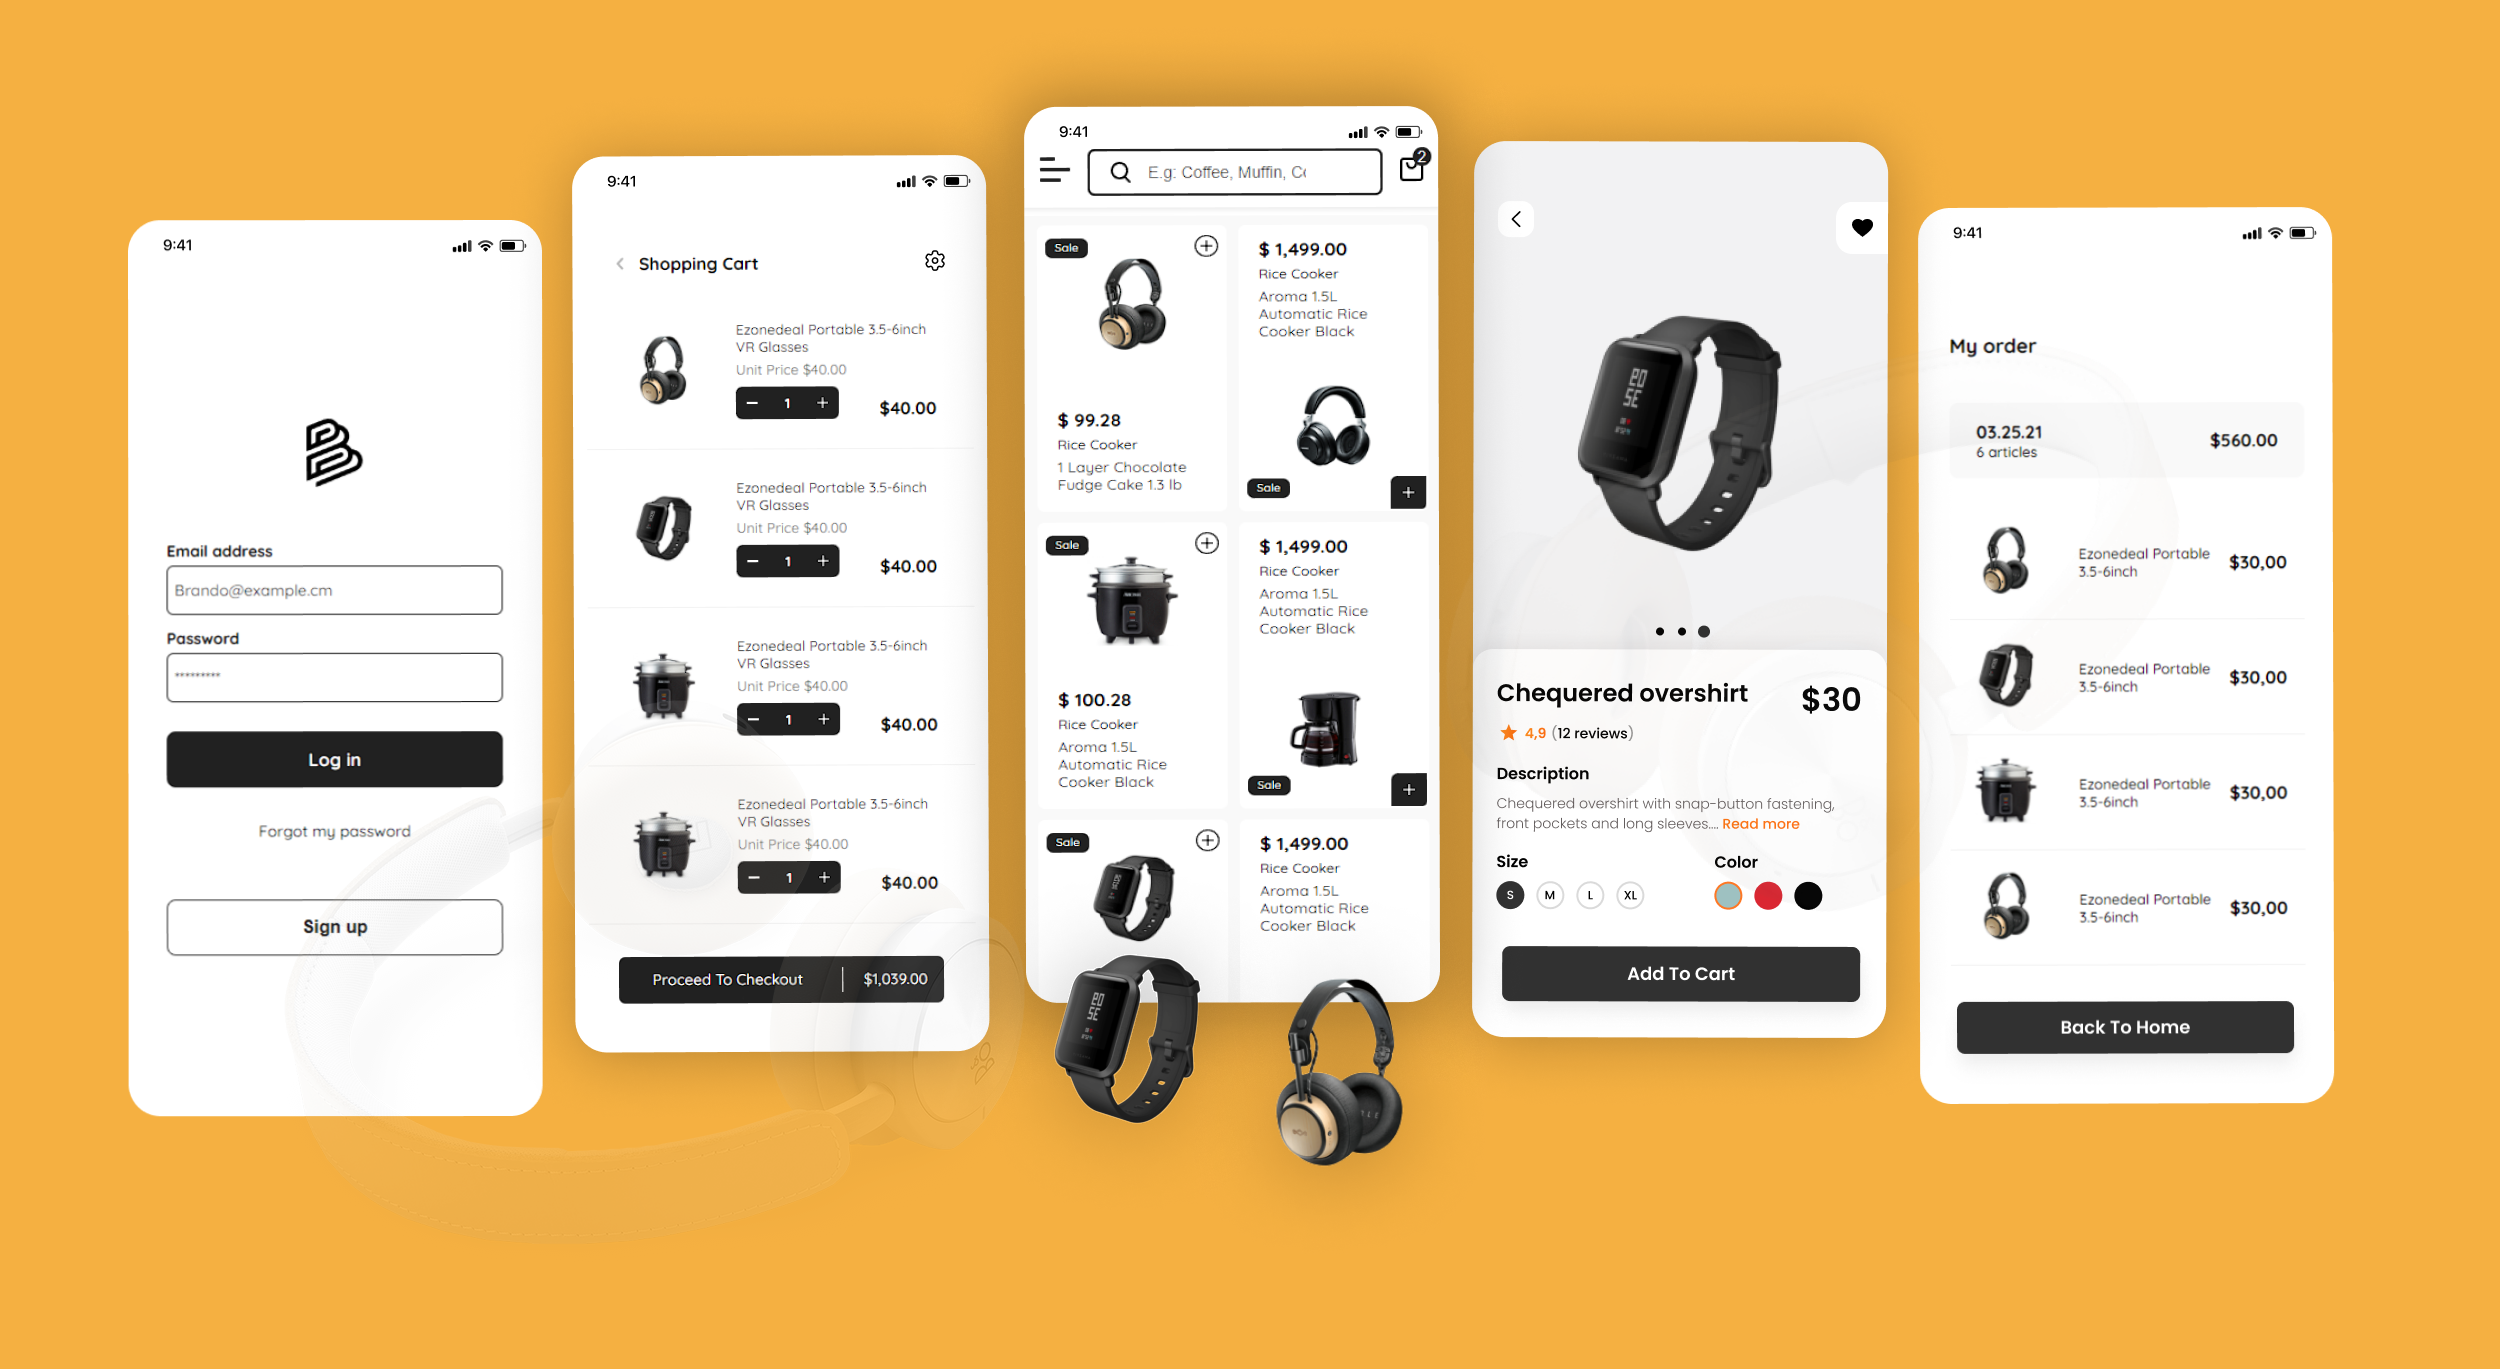
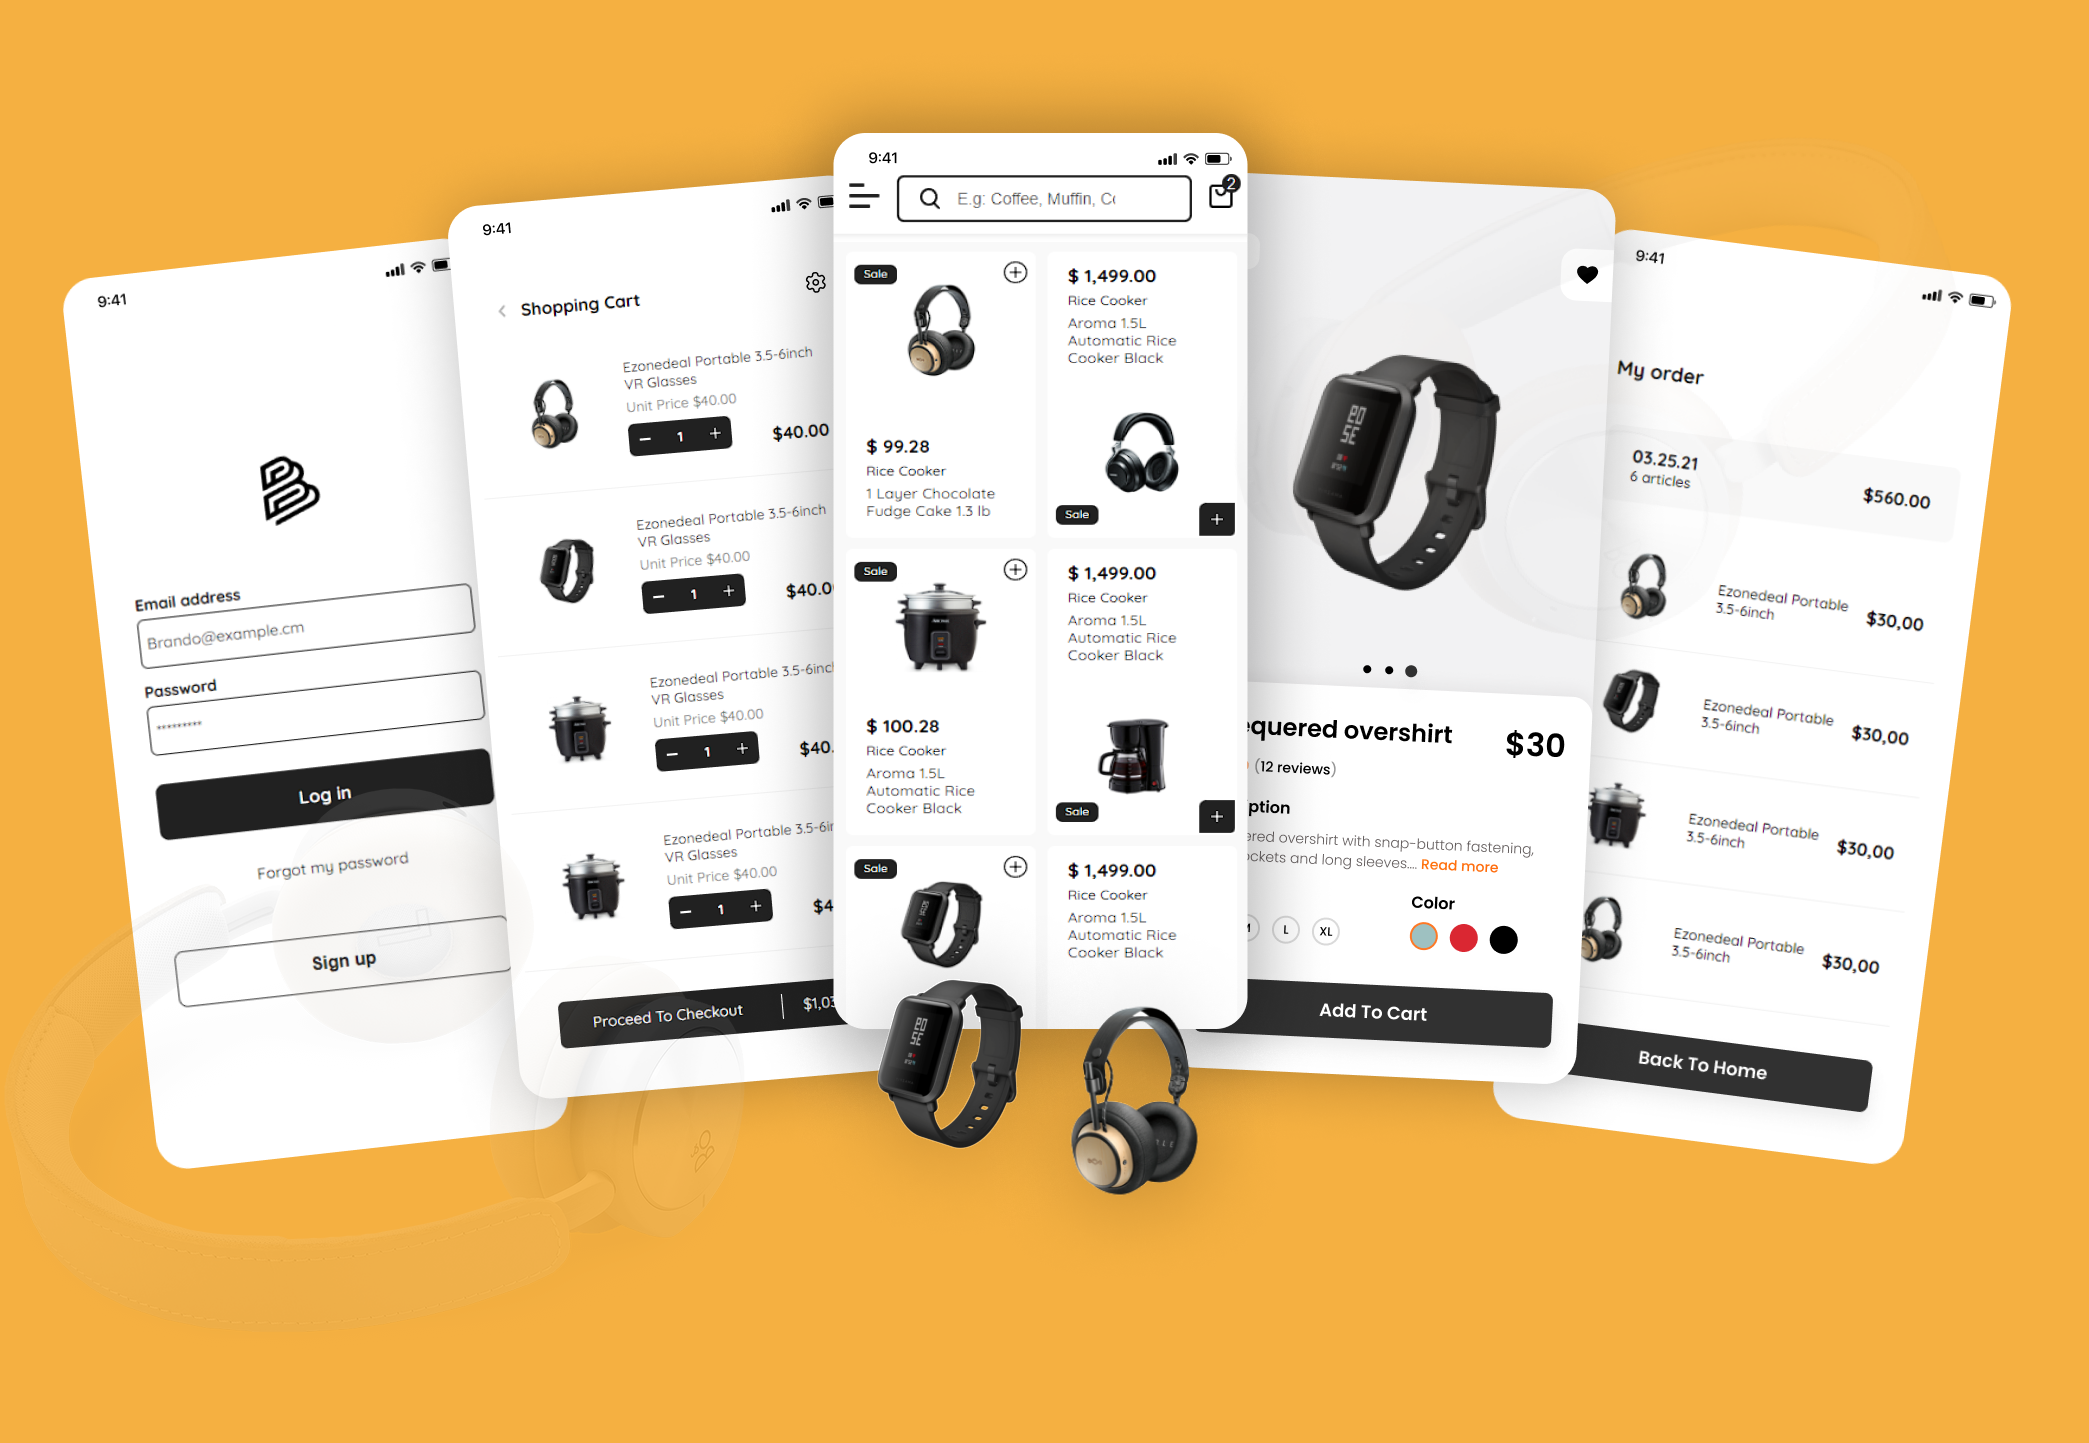
subo

Changed region(s): [[0.0311, 0.0614, 0.9646, 0.859], [0.1245, 0.3068, 0.1556, 0.3682]]

diff --git a/detail/detail.html b/detail/detail.html
@@ -17,7 +17,7 @@
                     <div class="card__hero-wrapper">
                         <a href="https://brandorodriguez.github.io/beta/" class="card__hero">
                             <div class="responsive-media" style="padding-bottom:65%">
-                                <img alt="" src="../img/brezgo_ecomerce.png">
+                                <img alt="" src="../img/Frame.png">
                                 <div class="card__hero-content">
                                     <h3>Beautiful UI components, crafted with HTML & CSS.</h3>
                                     <div class="card__category">UI Ecommerce</div>

diff --git a/detail/detail.css b/detail/detail.css
@@ -158,8 +158,10 @@
         left: 0;
         top: 0;
         z-index: 1;
-        background: linear-gradient(200deg, rgba(10, 10, 10, 0) 50%, rgba(10, 10, 10, .4) 65%);
-    }
+        background: linear-gradient( 
+180deg, rgba(10, 10, 10, 0) 50%, rgba(10, 10, 10, .4) 75%);
+}
+    
 
     img,
     object {
